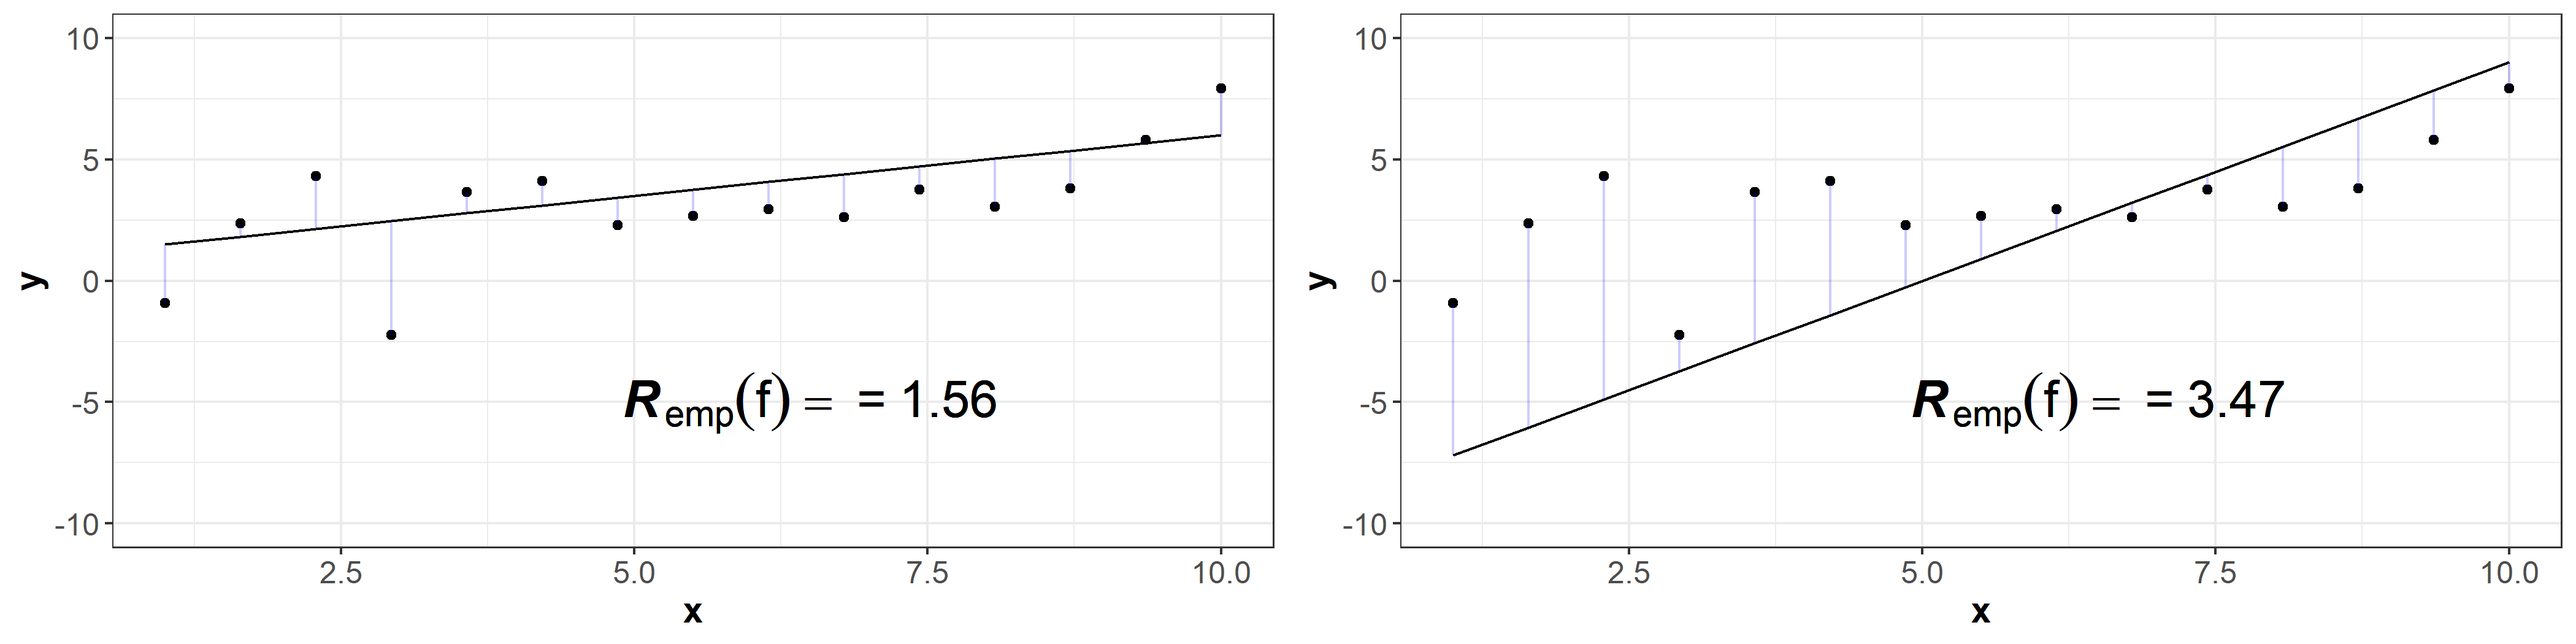
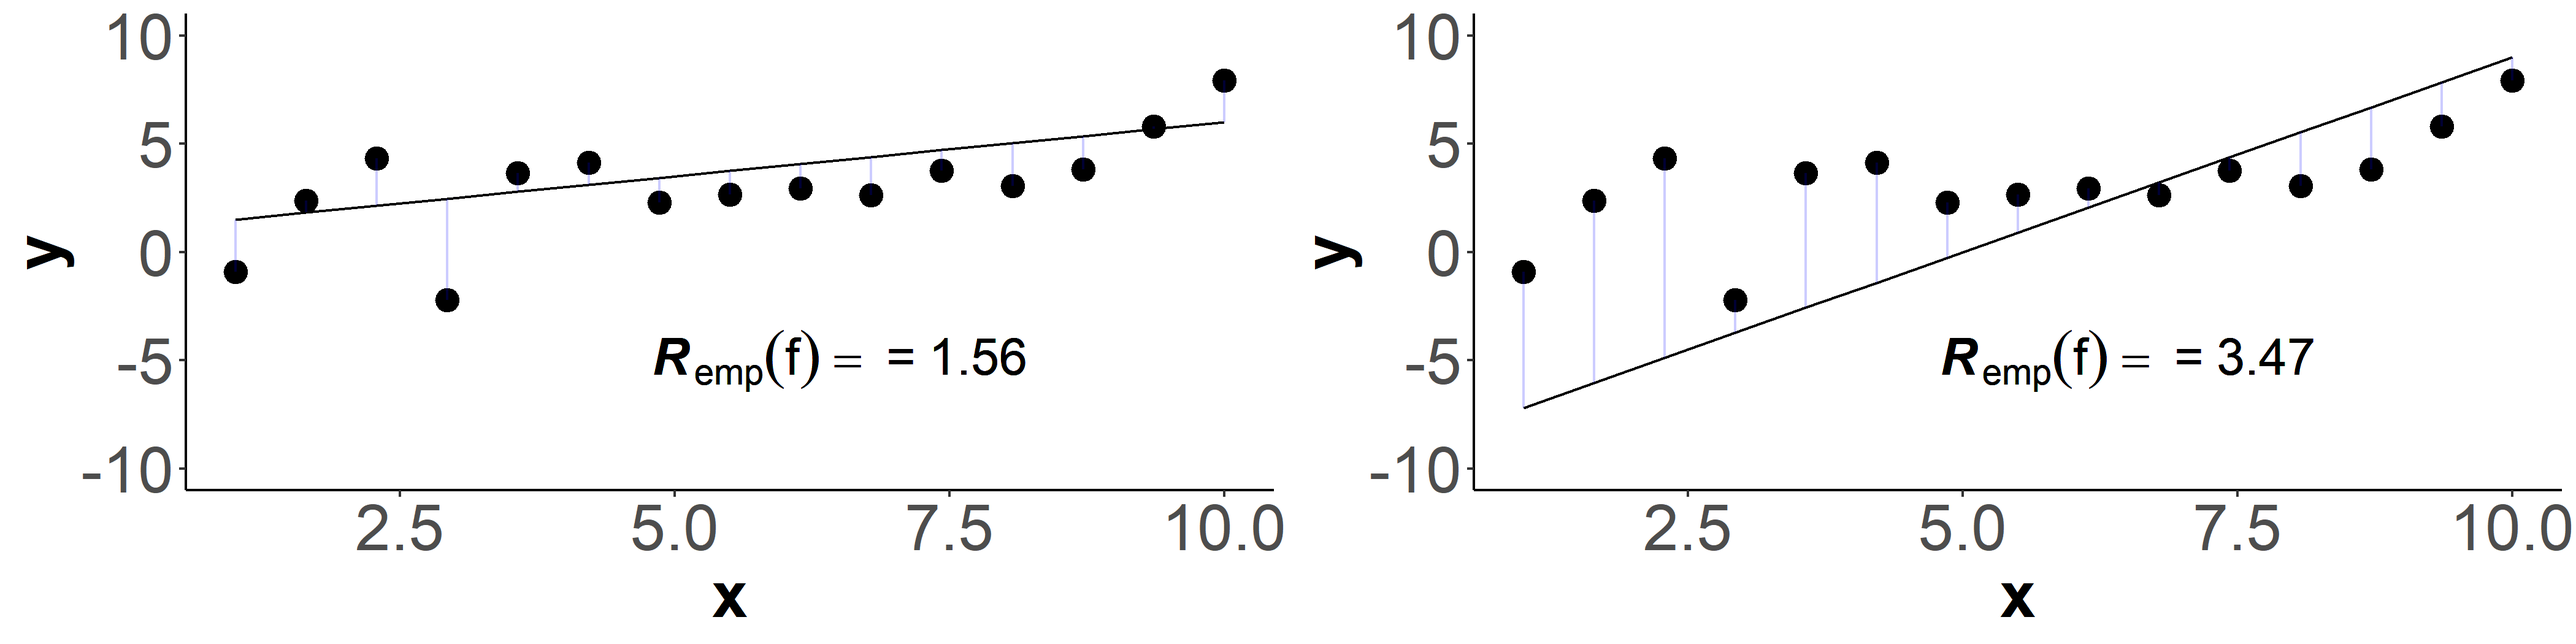
change first picture + adapt loss slides

diff --git a/slides/ml-basics/slides-basics-riskminimization.tex b/slides/ml-basics/slides-basics-riskminimization.tex
@@ -154,12 +154,19 @@
 
 \begin{frame}{How to Evaluate Models}
 
-Compare predictions from a model with observed target values:
+In the training, we want to optimize $\thetab$. To score $\thetab$, we have to compare the actual output with the predicted output: 
 
 \scriptsize
 
-% FIGURE SOURCE: https://docs.google.com/presentation/d/1dTc5act2POjELGuD8wFIUbPxG0QRZlg1PaYdHGU-FJM/edit?usp=sharing
-\begin{center}\includegraphics[width=0.8\textwidth]{figure_man/eval_inducer1_web} \end{center}
+% % FIGURE SOURCE: https://docs.google.com/presentation/d/1dTc5act2POjELGuD8wFIUbPxG0QRZlg1PaYdHGU-FJM/edit?usp=sharing
+% \begin{center}\includegraphics[width=0.8\textwidth]{figure_man/eval_inducer1_web} \end{center}
+
+%https://docs.google.com/presentation/d/1l3VlmPYZs_ycbAIVet05lBcCGEbQeUCl3CAG56BllvM/edit?usp=sharing page 1
+
+\lz\lz
+\begin{center}\includegraphics[width=\textwidth]{figure_man/ml-basics-riskmin-eval.png} \end{center}
+
+
 \lz\lz
 \end{frame}
 
@@ -184,7 +191,11 @@ Compare predictions from a model with observed target values:
 
 \begin{vbframe}{Loss}
 
-The \textbf{loss function} $\Lxy$ quantifies the "quality" of the prediction $\fx$ of a single observation $\xv$.
+The \textbf{loss function} $\Lxy$ quantifies the "quality" of the prediction $\fx$ of a single observation $\xv$:
+
+    $$
+    L: \Yspace \times \R^g \to \R,
+    $$
 
 \lz
 
@@ -192,14 +203,26 @@ How "close" $\fx$ is to y can be quantified e. g. by  $\Lxy = |\fx - y|$.
 
 
 \vfill
-  
+
+
+%copied from cim2 lecture 
 \begin{center}
 \begin{figure}[!b]
-\includegraphics[width=0.6\textwidth]{figure/ml-basic_riskmin-1-loss.png}
+\includegraphics[width=0.9\textwidth]{figure/ml-basic_riskmin-1-loss.png}
 \end{figure}
 \end{center}
 
-\vspace*{0.01cm}
+\framebreak
+
+Often, we use the L2-loss $\Lxy = (y - \fx)^2$:
+
+\begin{center}
+\begin{figure}[!b]
+\includegraphics[width=\textwidth]{figure_man/loss_quadratic_plot1.png}
+\end{figure}
+\end{center}
+
+
 
 \end{vbframe}
 
